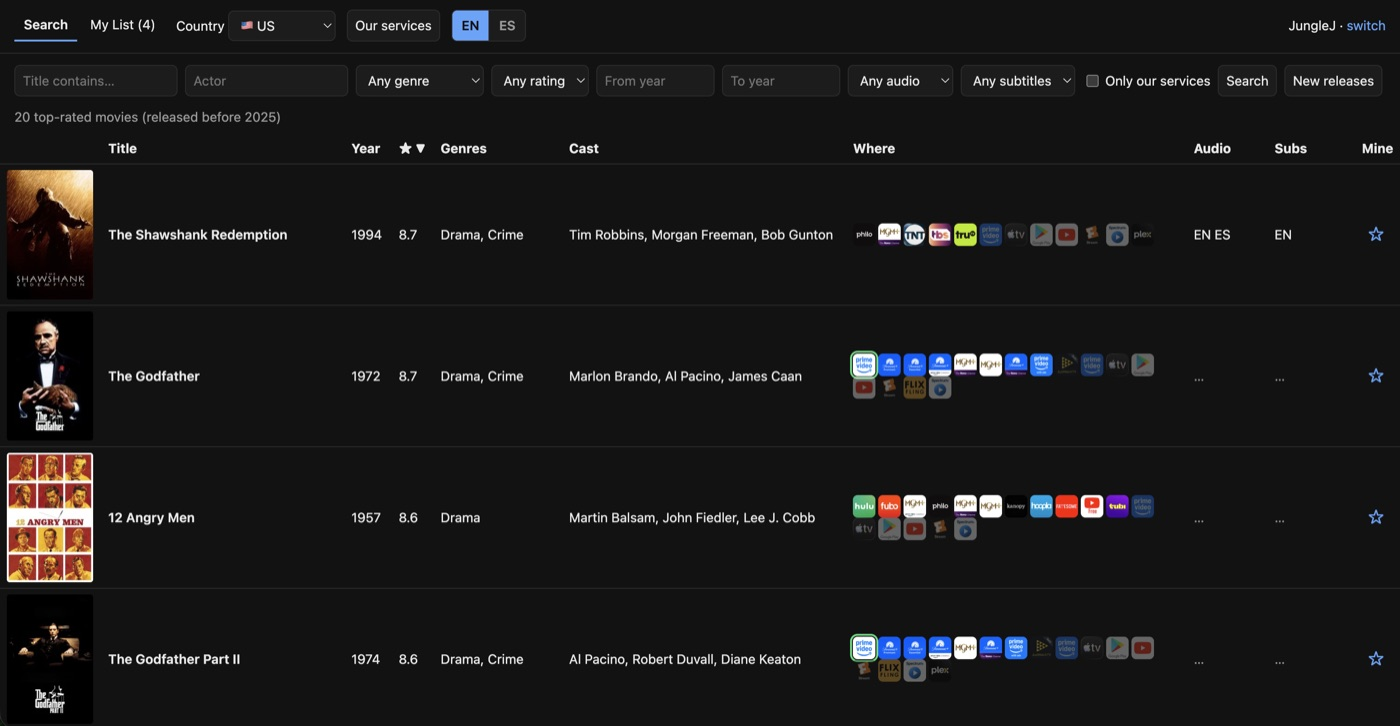
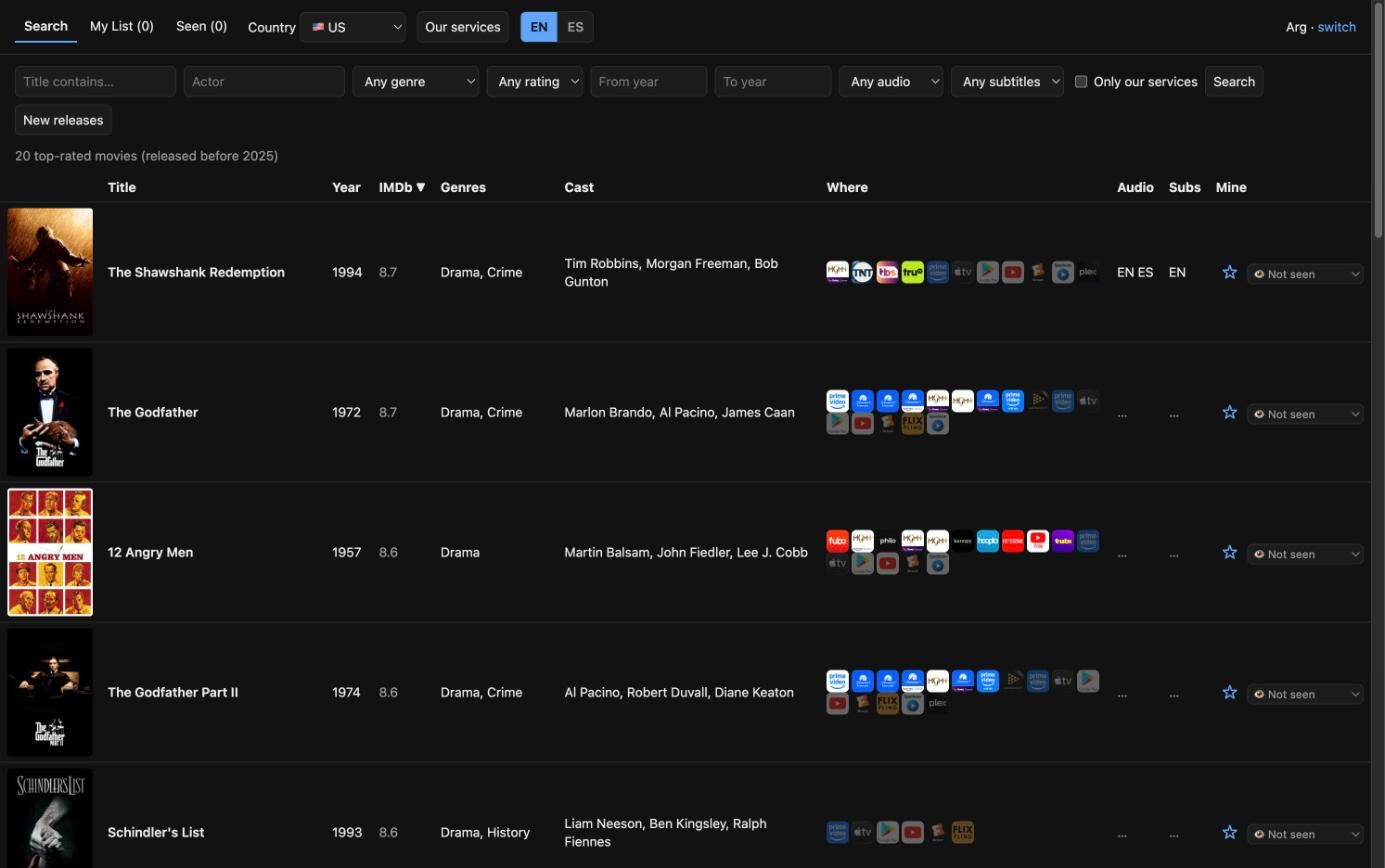
Add Big-Screen Family Messages and Trip Photo Videos apps; refresh Movie Table and Spanish screenshots

diff --git a/index.html b/index.html
@@ -239,9 +239,23 @@
         <div class="cards app-grid">
           <article class="card app-card">
             <div class="app-meta"><span class="badge badge-together">Setup together</span><span class="app-status live">Available now</span></div>
-            <a href="images/apps/movie-table.jpg" target="_blank" rel="noopener" class="app-shot"><img src="images/apps/movie-table.jpg" alt="Movie Table showing top-rated movies with the streaming services that carry each one, plus audio and subtitle languages" width="1400" height="726" loading="lazy"></a>
+            <a href="images/apps/family-messages.jpg" target="_blank" rel="noopener" class="app-shot"><img src="images/apps/family-messages.jpg" alt="Big-Screen Family Messages on a TV: a message from Sarah in very large white text on black, with a prompt to press TALK to reply" width="1400" height="877" loading="lazy"></a>
+            <h3>Big-Screen Family Messages</h3>
+            <p>For a parent who can't read a phone anymore. Family send messages from their phones, and they appear on the TV in huge, clear text and are read aloud in a natural voice. One key records a spoken reply, and the family gets it with a written transcript. <a href="images/apps/family-messages-2.jpg" target="_blank" rel="noopener">See another screen</a></p>
+            <a href="#contact" class="btn btn-small btn-ghost app-btn">Demo on request</a>
+          </article>
+          <article class="card app-card">
+            <div class="app-meta"><span class="badge badge-together">Setup together</span><span class="app-status live">Available now</span></div>
+            <a href="images/apps/trip-photo-video.jpg" target="_blank" rel="noopener" class="app-shot"><img src="images/apps/trip-photo-video.jpg" alt="Trip Photo Video title card: a satellite map of the Venice lagoon with the title Venice, Italy, 20 to 23 October 2024" width="1400" height="788" loading="lazy"></a>
+            <h3>Trip Photo Videos</h3>
+            <p>Turns the photos on your iPhone into a travel movie. It groups them by place, picks the best shots, skips screenshots and duplicates, and flies a map from one stop to the next with names and dates. Run it again after every trip. <a href="images/apps/trip-photo-video-2.jpg" target="_blank" rel="noopener">See another screen</a></p>
+            <a href="#contact" class="btn btn-small btn-ghost app-btn">Demo on request</a>
+          </article>
+          <article class="card app-card">
+            <div class="app-meta"><span class="badge badge-together">Setup together</span><span class="app-status live">Available now</span></div>
+            <a href="images/apps/movie-table.jpg" target="_blank" rel="noopener" class="app-shot"><img src="images/apps/movie-table.jpg" alt="Movie Table showing top-rated movies with IMDb scores, the streaming services that carry each one, audio and subtitle languages, and a Seen picker" width="1385" height="868" loading="lazy"></a>
             <h3>Movie Table</h3>
-            <p>Find movies by genre and rating, see which of your streaming services has them, with audio and subtitle languages, and keep a shared watch list.</p>
+            <p>Find movies by genre, actor and rating, see which of your streaming services has them, with audio and subtitle languages, and IMDb and Rotten Tomatoes scores. Keep a shared watch list, rate what you've seen, and get "more like this" picks. <a href="images/apps/movie-table-2.jpg" target="_blank" rel="noopener">See another screen</a></p>
             <a href="#contact" class="btn btn-small btn-ghost app-btn">Demo on request</a>
           </article>
           <article class="card app-card">
@@ -269,7 +283,7 @@
             <div class="app-meta"><span class="badge badge-together">Setup together</span><span class="app-status live">Available now</span></div>
             <a href="images/apps/spanish-speaking.jpg" target="_blank" rel="noopener" class="app-shot"><img src="images/apps/spanish-speaking.jpg" alt="Spanish speaking practice: an English sentence and its Spanish translation with matching words color-coded, plus Next, Say it again and Hear recording buttons" width="1400" height="854" loading="lazy"></a>
             <h3>Spanish Speaking Practice</h3>
-            <p>Practice out loud: say a sentence, see it in English and Spanish with matching words color-coded, then say it again and hear your own recording. A 1-on-1 mode lets you hold a real conversation. <a href="images/apps/spanish-speaking-2.jpg" target="_blank" rel="noopener">See another screen</a></p>
+            <p>Practice out loud: say a sentence, see it in English and Spanish with matching words color-coded, then say it again and hear your own recording. A 1-on-1 mode lets you hold a real conversation, and a reading mode takes you through short classic books, with pictures and how to say each key word. <a href="images/apps/spanish-speaking-2.jpg" target="_blank" rel="noopener">See another screen</a> · <a href="images/apps/spanish-reading.jpg" target="_blank" rel="noopener">See reading mode</a></p>
             <a href="#contact" class="btn btn-small btn-ghost app-btn">Demo on request</a>
           </article>
         </div>
